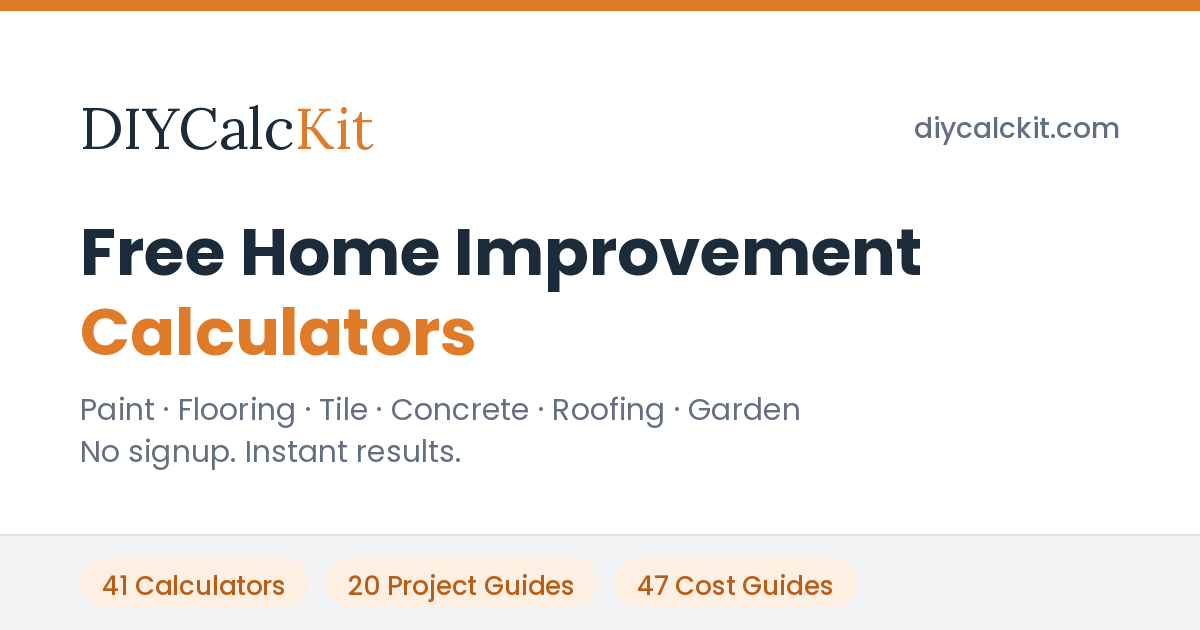
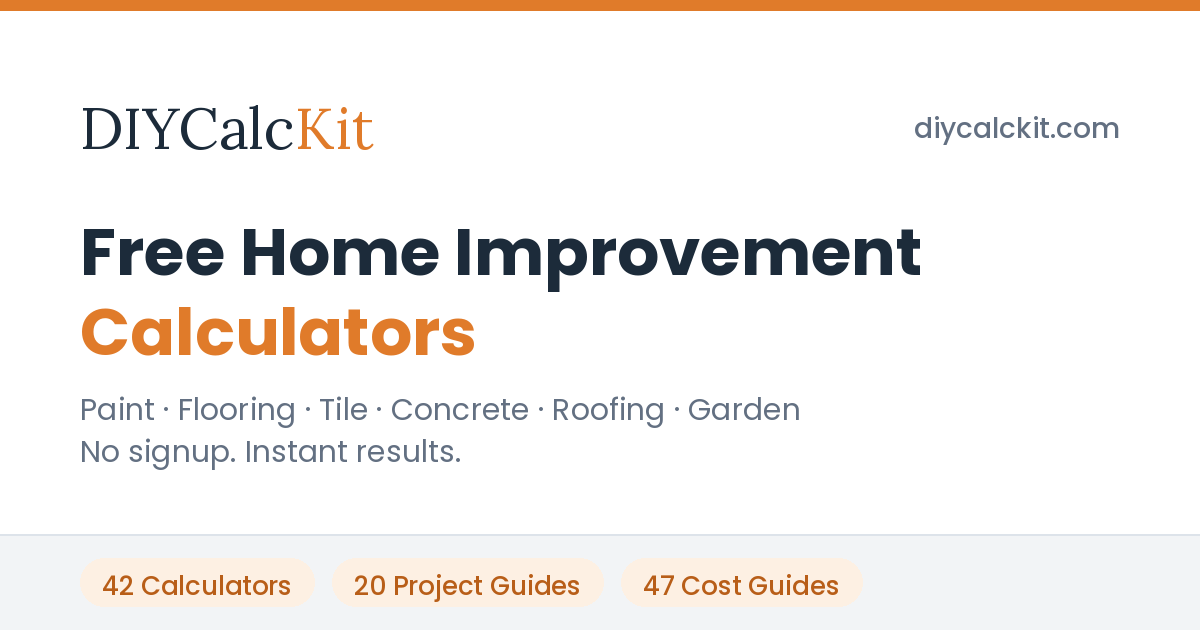
handover.md + og 갱신: 2026-09-28 세션 - 빙 클릭 5->14건 가속, grout 노출 2배로 믹싱 섹션 보강, LVP 오프컷 재사용 판정 계산기 신규, 구글 6주 연속 정지

Changed region(s): [[0.2775, 0.9048, 0.4933, 0.9651], [0.5242, 0.9048, 0.7092, 0.9651], [0.0925, 0.9048, 0.2467, 0.9651]]

diff --git a/handover.md b/handover.md
@@ -1386,3 +1386,100 @@ roofing 필터 4개, seasonal 필터 1개, all 41개 정상.
 ## 현재 상태 (2026-09-21 세션 종료)
 - 툴 **41** / 블로그 47 / 프로젝트 20 / 허브 3 / 루트 4 = **115개 파일** (sitemap 115 일치)
 - 커밋: `8e29297`(단열 계산기 + 허브 렌더 버그 수정 + board&batten 보강)
+
+---
+
+# 2026-09-28 세션 (GSC 09-14 + Bing Keyword/PageTraffic 09-14 + GA 08-17~09-13)
+
+## 데이터 판독
+
+### 구글: 6주 연속 정지 — 지난주와 **완전히 동일**
+색인 26/18, 최종 크롤링 07-21. 신규 발행물은 여전히 "발견됨-미색인"에 `1970-01-01`(크롤 이력 없음)로 적체.
+GSC export 날짜가 09-14인데 차트 마지막이 09-04로, 09-07분과 실질 동일한 데이터. 구조 변경 안 함.
+
+### 빙: 노출·클릭 모두 가속
+| 페이지 | 노출(전주) | 클릭 | CTR |
+|---|---|---|---|
+| contractor-cost-calculator | **111**(84) | 2 | 1.8% |
+| square-footage-calculator | **94**(65) | **4** | 4.26% |
+| carpet-calculator | **59**(38) | **3** | 5.08% |
+| how-much-primer-do-i-need | 43 | 0 | — |
+| 1-2-vs-5-8-drywall | 41 | 0 | — |
+| board-and-batten-calculator | 35(29) | 0 | — |
+| **grout-calculator** | **18**(8) | 0 | — |
+| deck-size-calculator | 5 | **3** | **60%** |
+| contractor-labor-cost | 8 | 1 | 12.5% |
+
+**총 클릭 14건(전주 5건).** grout-calculator가 2배 이상 성장.
+
+### GA: 활성 60명(전 52), 참여시간 **23.6초**(전 19.4) — 5주 연속 상승
+12.2 → 14.3 → 18.5 → 22.6 → 23.6초. contractor-cost 6조회로 홈 다음 2위.
+
+## 실행 2건
+
+### 1) `tools/lvp-layout-calculator.html` 신규 (1,409단어)
+LVP 쿼리가 신규 등장(`how to measure to start laying lvp flooring in a room` 순위 8.7,
+`how can is lvp flooring to diy` 순위 3)하고 `how-to-install-lvp-flooring`이 빙에 9노출로 첫 진입.
+
+경쟁 8개+ 이고 tileprocalculator는 전용 LVP 계산기까지 보유. 그런데 **전부 "마지막 열이 슬리버면
+첫 열을 리핑하라"는 규칙만 산문으로 말하고 실제 치수를 계산해주지 않음.**
+우리 프로젝트 페이지도 같은 수준이라 중복 아님.
+
+**경쟁 도구에 없는 출력 = 행 끝 오프컷이 다음 행 시작재로 쓸 수 있는지 판정.**
+- 너비 방향: 행 수, 마지막 행 폭, 슬리버 2단 판정(2인치 미만 필수 / 플랭크 절반 미만 권장), 균등 배분값
+- **길이 방향(핵심)**: 끝 컷과 오프컷이 **둘 다** 스태거 최소를 넘어야 함.
+  끝 컷이 짧으면 벽에 안 잠기는 토막, 오프컷이 짧으면 매 행마다 새 플랭크 → 실질 웨이스트 폭증.
+  tileprocalculator가 "오프컷 8인치 미만은 스크랩"이라 언급만 한 지점.
+- 둘 다 불만족일 때 **첫 플랭크를 몇 인치 잘라 시작할지 0.25인치 단위로 탐색해 제시**
+- 전 치수 1/16인치 표기
+
+**검산에서 2건 수정** (둘 다 기록해둘 가치 있음):
+- `lvFmt(0.5)`가 `0 1/2"`로 출력 → `whole === 0`이면 분수만 반환하도록. **분수 포맷터는 정수부 0을 따로 처리할 것.**
+- 초기 구현이 **"끝 컷이 짧을 때"만 트림을 제안하고 "오프컷이 짧을 때"는 스크랩이라고만 하고 해법을 안 줬음.**
+  두 조건을 통합해 `stag <= endCut <= pl-stag`를 만족하는 최소 트림을 탐색하도록 변경.
+  144x192/6x48 → 6.5in 트림(끝컷 6, 오프컷 42), 240x300/7.5x60 stag12 → 13in 트림(끝컷 12, 오프컷 48).
+  수동 검산과 일치 확인. → **대칭적인 두 제약이 있으면 한쪽만 처리하고 있는지 확인할 것.**
+
+### 2) `tools/grout-calculator.html` 보강 (646 → 1,107단어)
+빙 그라우트 쿼리가 **12개 이상으로 최대 클러스터**이고 계산기 노출이 2배 성장했는데,
+기존 계산기는 수량만 주고 믹싱을 전혀 다루지 않았음(프로젝트 페이지에 절차만 존재).
+실측: `i need to mix grout for around 1 12x12 tile, how much grout and water do i use`(순위 8.5),
+`how much grout should i expect to mix for a 8x14 bathroom with mapei all in one grout`(6.75),
+`how much grout do you need for a coaster`(4), `how many bags of grout do i need for 2.3m3`.
+
+"Mixing: Water Ratio, Small Batches, and Pot Life" 섹션 신설.
+핵심 차별점: **제조사는 전량(25lb) 기준 물 비율만 표기하므로, 부분 배치용 파운드당 수치를 제공.**
+이게 소량 쿼리의 실제 미충족 지점. 그 외 무게 계량(스쿱은 밀도 편차), 물 먼저 파우더 나중,
+슬레이크 후 물 추가 금지(시멘트 비율 영구 파괴), 포트라이프, 0.5lb 미만은 프리믹스 권장, 미터법 환산.
+
+## 검증
+- 7-gram 자카드로 기존 115개 전 페이지 대조 → 신규/보강 모두 **2% 초과 쌍 0건**
+- HTML 116/116, JSON-LD 320블록 100%, 죽은링크 0, sitemap 116 = 파일 116,
+  llms.txt 112 URL 죽은링크 0, node --check, **계산기 42/42 jsdom 동작 정상**
+- **지난주 체크리스트 적용됨**: cat은 기존 `flooring` 사용(새 키 안 만듦), catOrder 8개 정합 확인,
+  tools grid **42개 전부 렌더** 및 신규 포함 확인
+
+## 작업 환경 주의 (이번에 걸렸던 것)
+컨테이너가 세션 간 리셋되므로 `/home/claude`의 헬퍼 스크립트(`mktool.py`, `mkblog.py`, `tooltest.js`)와
+`npm install jsdom`이 **매 세션 사라진다.** 이번에 mktool.py를 재작성해야 했음.
+템플릿은 기존 계산기 파일에서 head/footer를 잘라 쓰면 되므로(`/tmp/head0.html`, `/tmp/foot0.html`) 복구는 빠름.
+
+## 다음 세션 지침
+1. 구글 최종 크롤링 날짜 확인 루틴 유지. 07-21에서 안 움직이면 구조 변경 금지.
+2. **빙 클릭이 5 → 14건으로 늘었다. 이 추세를 계속 볼 것.** CTR이 4~5%대인 페이지
+   (square-footage, carpet, deck-size)는 이미 상위 노출 중이므로 순위보다 **해당 쿼리의
+   미충족 각도**를 찾는 게 효율적.
+3. 이번 빙 쿼리에서 미대응으로 남긴 것:
+   - `how much bags of insulation needed for 16x16 garage`(순위 9) — 차고 단열. 차고 클러스터 확장 여지
+   - `what is the procedure for hanging wallpaper strips?`(4노출), `where to start wallpaper —
+     eye first or center`(2노출) — 벽지 **시작 위치** 각도. 우리 how-to-hang-wallpaper가 절차만 다룸
+   - `gypcrete vs self leveling compound over 3/4 plywood with pex`(순위 1) — 방통/난방배관
+   - `can you use greenboard behind a full slab ceramic shower wall panels`(2건) — 대형 슬랩 패널
+4. contractor 클러스터 미대응(그대로 유효): 견적서 항목 읽는 법, 변경명세 처리, 서비스콜 요금 구조.
+5. 신규 계산기 체크리스트(누적): cat이 CATEGORY_LABELS+catOrder 양쪽에 있는지 /
+   관련 기존 계산기와 상수 공유하는지 / 안전 정보는 결과 영역에 / 분수 포맷터 정수부 0 처리 /
+   대칭 제약을 한쪽만 처리하고 있지 않은지.
+
+## 현재 상태 (2026-09-28 세션 종료)
+- 툴 **42** / 블로그 47 / 프로젝트 20 / 허브 3 / 루트 4 = **116개 파일** (sitemap 116 일치)
+- 커밋: `95ddb3f`(LVP 레이아웃 계산기 + 그라우트 믹싱 보강)
